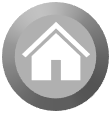
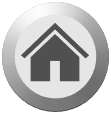
bug fixes

diff --git a/stage.py b/stage.py
@@ -61,6 +61,7 @@ class GameState():
                     time.sleep(.3)
                     self.lvl = 0
                     self.state = 'main_game'
+                    fade(S_WIDTH, S_HEIGHT)
                     self.stage_manager()
 
             if level_two.hovered():
@@ -68,6 +69,7 @@ class GameState():
                 if level_two_hovered.is_clicked():
                     self.lvl = 1
                     self.state = 'main_game'
+                    fade(S_WIDTH, S_HEIGHT)
                     self.stage_manager()
 
             if level_three.hovered():
@@ -75,6 +77,7 @@ class GameState():
                 if level_three_hovered.is_clicked():
                     self.lvl = 2
                     self.state = 'main_game'
+                    fade(S_WIDTH, S_HEIGHT)
                     self.stage_manager()
 
             if qmark.hovered():
@@ -90,7 +93,7 @@ class GameState():
             pygame.display.update()
 
     def main_game(self):
-        # Time
+        # Time ---------------------------------------------------------- #
         milsec = 0
         second = 0
         minute = 0
@@ -104,7 +107,7 @@ class GameState():
             image_const(num), (50, 60)) for num in numbers]
         colon = pygame.transform.scale(image_const('colon'), (50, 60))
 
-        # Buttons
+        # Buttons ------------------------------------------------------- #
         submit = Button((levels[self.lvl][2]*2 + CELL_SIZE*levels[self.lvl][0])/2 - 95,
                         levels[self.lvl][3]+CELL_SIZE*levels[self.lvl][1],
                         image_const('submit'),
@@ -115,8 +118,12 @@ class GameState():
                                 image_const('submit_hovered'),
                                 0.7)
         home = Button(30, 750, image_const('home'), 0.3)
+        home_hovered = Button(30, 750, image_const('home_hovered'), 0.3)
+        reset = Button(70, 750, image_const('reset'), 0.3)
+        reset_hovered = Button(70, 750, image_const('reset_hovered'), 0.3)
+        
 
-        # Board //levels = [width, height, left, top]
+        # Board //levels = [width, height, left, top] ------------------- #
         main_board = MainBoard(
             levels[self.lvl][0], levels[self.lvl][1], levels[self.lvl][2], levels[self.lvl][3], WHITE, BLACK, 1)
         memo_board = MemoryBoard(
@@ -127,7 +134,7 @@ class GameState():
         shapes = [Shape(5, 5, shape_pos[i][0], shape_pos[i][1],
                         COLORS[random.randint(0, len(COLORS)-1)], BLACK, 1) for i in range(11)]
 
-        # Animation //Coordinates(CenterX, CenterY, width, height)
+        # Animation //Coordinates(CenterX, CenterY, width, height) ------- #
         board_coord = Coordinates(levels[self.lvl][2] + 1/2*levels[self.lvl][0]*CELL_SIZE,
                                   levels[self.lvl][3] + 1/2 *
                                   levels[self.lvl][1]*CELL_SIZE,
@@ -143,21 +150,22 @@ class GameState():
         while True:
             SCREEN.fill(WHITE)
 
-            # Bottons
+            # Game elements ---------------------------------------------- #
             submit.draw(SCREEN)
             home.draw(SCREEN)
-            # Game elements
+            reset.draw(SCREEN)
+            # Board  
             main_board.render()
             warning_board.render()
-            # Outline for main_board
+            # Outline 
             pygame.draw.rect(
                 SCREEN, BLACK,
                 (levels[self.lvl][2], levels[self.lvl][3], CELL_SIZE*levels[self.lvl][0], CELL_SIZE*levels[self.lvl][1]), 5)
-            # Shapes
+            # Shapes 
             for shape in shapes:
                 shape.render()
 
-            # Time
+            # Time 
             time_left = (levels[self.lvl][2]*2 +
                          CELL_SIZE*levels[self.lvl][0])/2 - 100
 
@@ -177,10 +185,22 @@ class GameState():
             SCREEN.blit(singles[second % 10],
                         (time_left+140, levels[self.lvl][3]-60))
 
-            # Game
-            if home.is_clicked():
-                self.state = 'main_menu'
-                self.stage_manager()
+            # Game -------------------------------------------------------- #
+            if home.hovered():
+                home_hovered.draw(SCREEN)
+                if home_hovered.is_clicked():
+                    self.state = 'main_menu'
+                    fade(S_WIDTH, S_HEIGHT)
+                    self.stage_manager()
+                
+            if reset.hovered():
+                reset_hovered.draw(SCREEN)
+                if reset_hovered.is_clicked():
+                    fade(S_WIDTH, S_HEIGHT)
+                    shapes = [Shape(5, 5, shape_pos[i][0], shape_pos[i][1],
+                                    COLORS[random.randint(0, len(COLORS)-1)], BLACK, 1) for i in range(11)]
+                    memo_board.reset()
+                    warning_board.reset()
 
 
             if submit.hovered() and pressed==None:
@@ -194,17 +214,23 @@ class GameState():
                     complete = check_win(memo_board.board)
 
                     if not complete:
+                        fade(S_WIDTH, S_HEIGHT)
                         continues()
+
                     else:
+                        fade(S_WIDTH, S_HEIGHT)
                         win()
                         if win() is True:
                             self.lvl += 1
+                            fade(S_WIDTH, S_HEIGHT)
                             self.stage_manager()
                             if self.lvl > 2:
                                 self.state = 'main_menu'
+                                fade(S_WIDTH, S_HEIGHT)
                                 self.stage_manager()
                         else:
                             self.state = 'main_menu'
+                            fade(S_WIDTH, S_HEIGHT)
                             self.stage_manager()
 
 

diff --git a/cutscene.py b/cutscene.py
@@ -10,7 +10,7 @@ def continues():
     continue_ = Button(S_WIDTH/2, S_HEIGHT*1/2, image_const('continue'), 0.5)
         
     while running:
-        SCREEN.fill(GREY)
+        SCREEN.fill(WHITE)
         undone.draw_centered(SCREEN)
         continue_.draw_centered(SCREEN)
 
@@ -31,7 +31,7 @@ def win():
     menu = Button(S_WIDTH*5/8, S_HEIGHT/2, image_const('menu'), 0.5)
 
     while running:
-        SCREEN.fill(GREY)
+        SCREEN.fill(WHITE)
 
         complete.draw_centered(SCREEN)
         nextlevel.draw_centered(SCREEN)

diff --git a/functions.py b/functions.py
@@ -80,11 +80,10 @@ def draw_text_middle(surface, text, size, color, fontname):
 def fade(width, height):
     fade = pygame.Surface((width, height))
     fade.fill(WHITE)
-    for alpha in range(0, 300):
+    for alpha in range(0, 100):
         fade.set_alpha(alpha)
         SCREEN.blit(fade, (0, 0))
-        pygame.display.update(1)
-
+        pygame.display.update()
 
 def check_win(board):
     win = False

diff --git a/board.py b/board.py
@@ -49,6 +49,9 @@ class MemoryBoard(MainBoard):
         super().__init__(width, height, left, top, inner_color, outer_color, lines)
         self.board = [[0 for _ in range(width)] for _ in range(height)]
         self.cell_size = CELL_SIZE
+        
+    def reset(self):
+        self.board = [[0 for _ in range(self.width)] for _ in range(self.height)]
 
 
 class WarningBoard(MainBoard):
